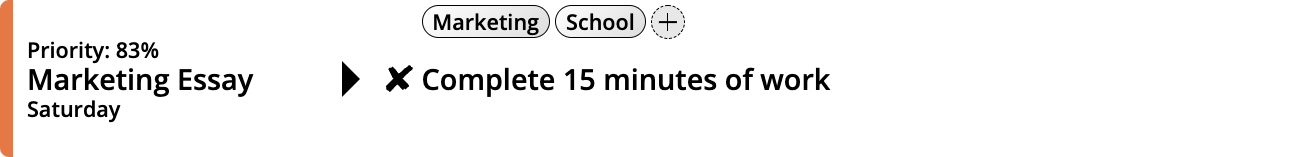
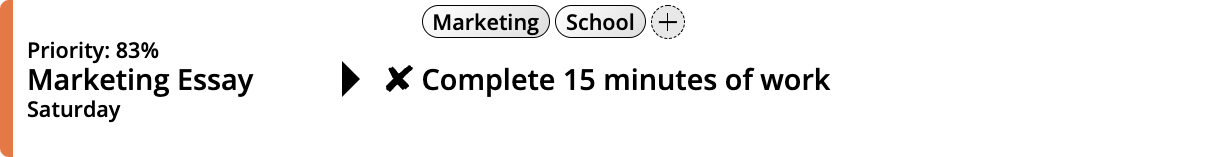
Trim scroller image widths

diff --git a/timeweb/home_page/generate_scrollers.py b/timeweb/home_page/generate_scrollers.py
@@ -22,7 +22,7 @@ for i in range(img.width - 1 - good_column_padding, good_column_padding, -1):
 top = None
 bottom = None
 left = 0
-right = img.width - 400
+right = img.width - 500
 
 count = 0
 old_color = wanted_column_colors[1]
@@ -30,7 +30,7 @@ for i in range(0, img.height):
     p = [*img.getpixel((good_column, i))][:3]
     if p != old_color:
         if p == wanted_column_colors[0]:
-            assert old_color == wanted_column_colors[1], breakpoint()
+            assert old_color == wanted_column_colors[1]
             top = i
         else:
             assert p == wanted_column_colors[1]
